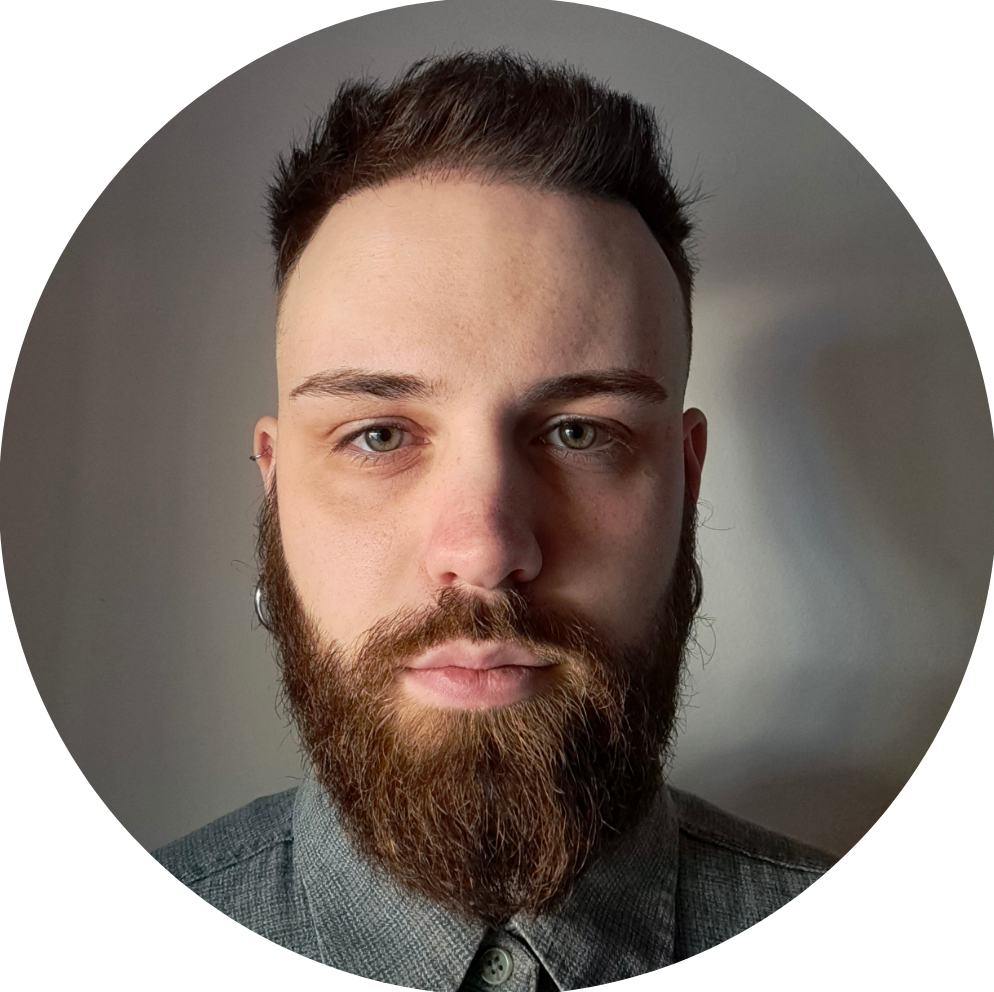
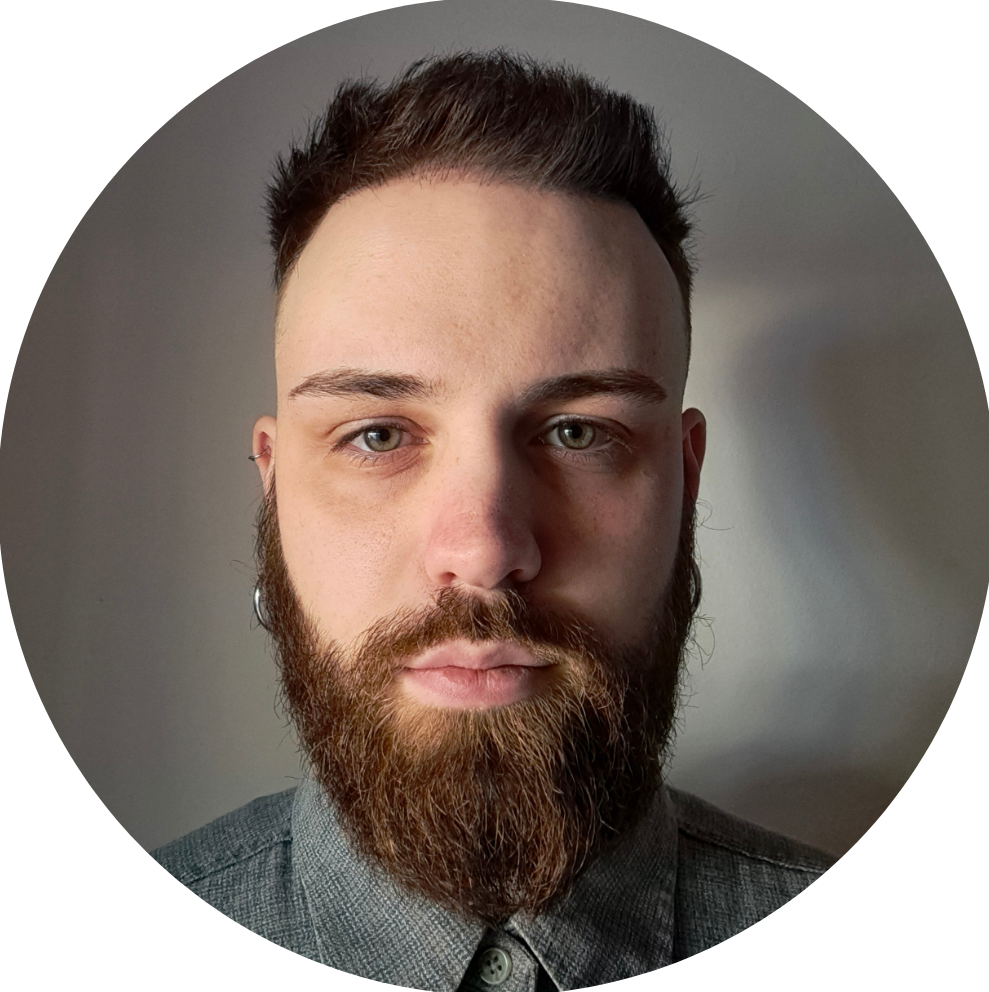
update blind section

diff --git a/index.html b/index.html
@@ -93,6 +93,9 @@
 								<a href="images/fulls/BLIND/1.jpg" class="image fit thumb" id='Starway To Something' target="_blank"></a>								
 							</article>
 							<article class="col-6 col-12-xsmall work-item">
+								<a href="images/fulls/BLIND/29.jpg" class="image fit thumb" id='10,000 days' target="_blank"></a>								
+							</article>
+							<article class="col-6 col-12-xsmall work-item">
 								<a href="images/fulls/BLIND/24.png" class="image fit thumb" id='Far From Heaven' target="_blank"></a>								
 							</article>
 							<article class="col-6 col-12-xsmall work-item">

diff --git a/assets/css/main.css b/assets/css/main.css
@@ -2667,7 +2667,7 @@ input, select, textarea {
 
 		#header .image.avatar {
 			margin: 0 0 1em 0;
-			width: 9.25em;
+			width: 10em;
 		}
 
 /* Footer */
